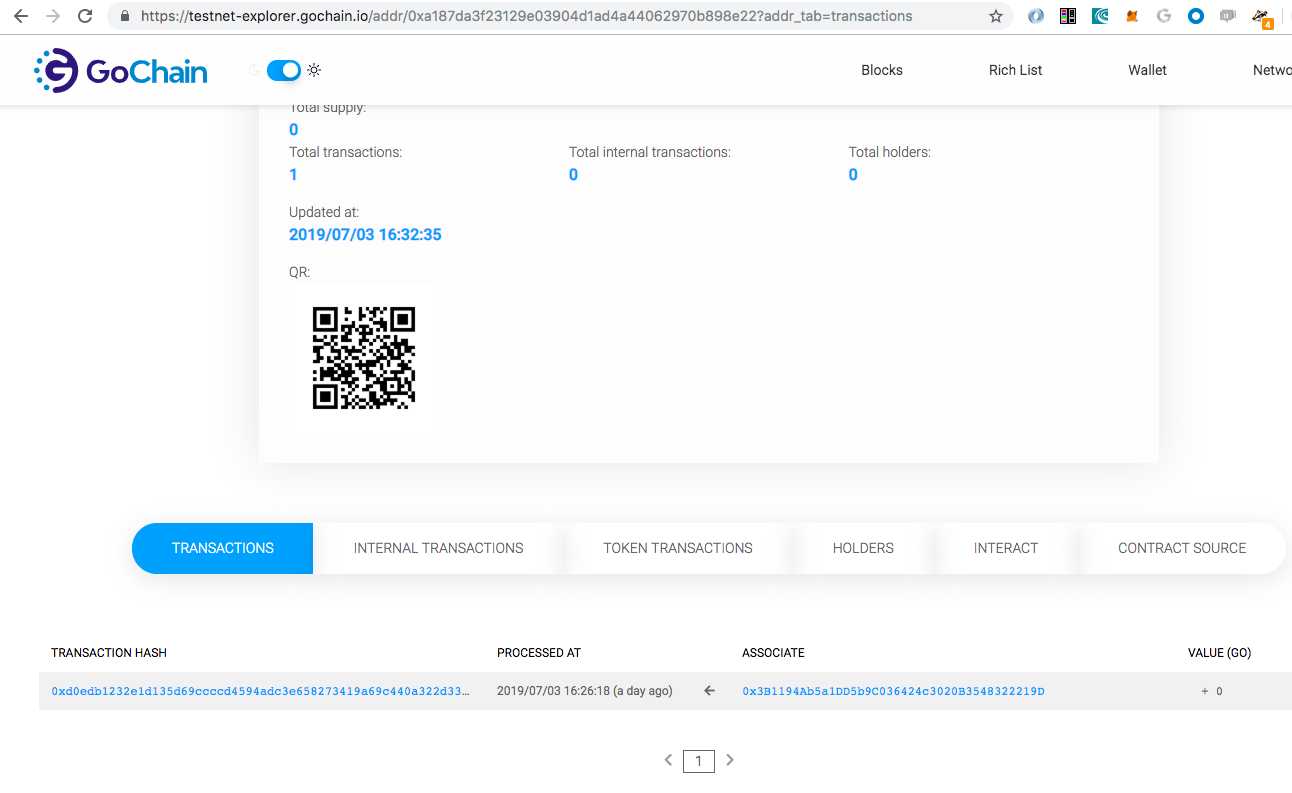
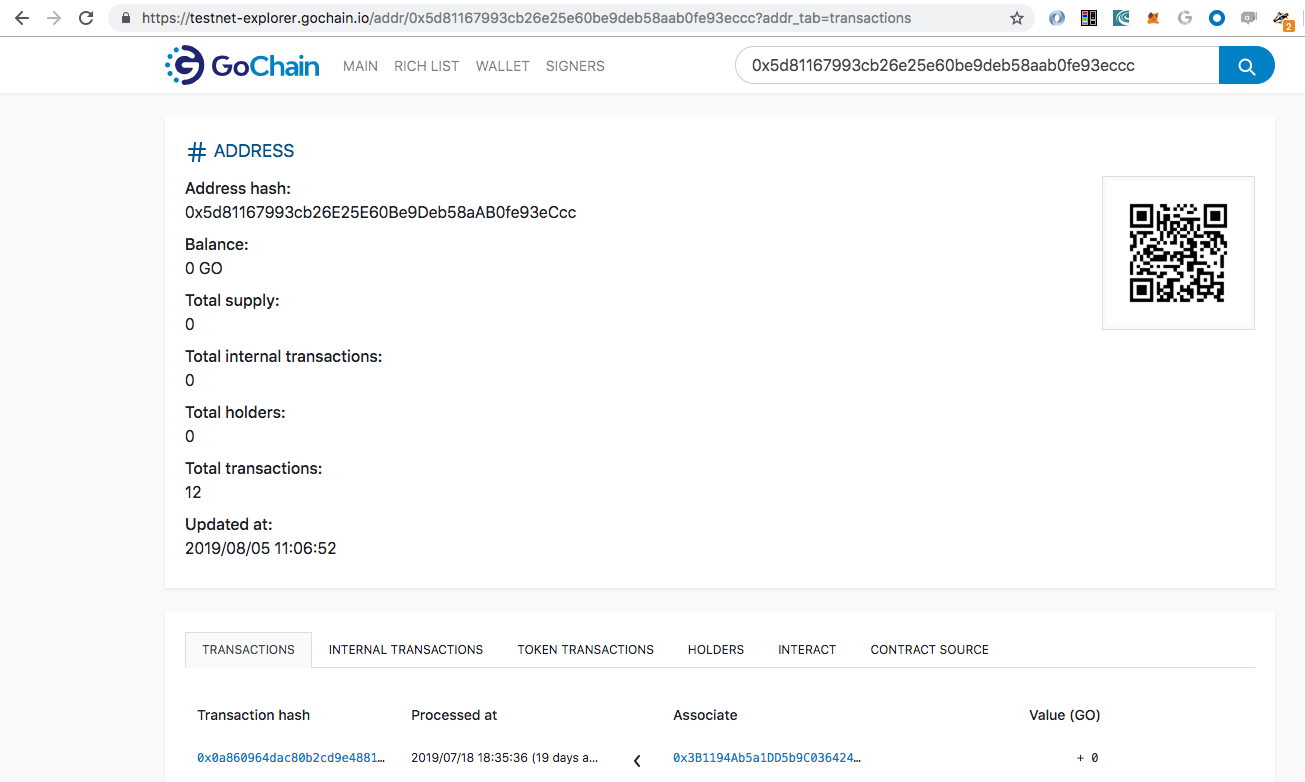
Use correct gochain deployment address

diff --git a/GoChain.md b/GoChain.md
@@ -53,7 +53,7 @@ Let's also check that our Ownership contract deployed correctly on the GoChain T
 
 ![Link Contract Deployments List](images/link_contract_deployments_list.png)
 
-In the above example, the contract address on GoChain is `0xa187da3f23129e03904d1ad4a44062970b898e22`.
+In the above example, the contract address on GoChain is `0x5d81167993cb26e25e60be9deb58aab0fe93eccc`.
 
 ![GoChain Explorer](images/gochain_explorer_contract.png)
 
@@ -77,5 +77,6 @@ https://github.com/blockmason/link-onboarding/blob/master/ownership-link-sdk-dem
 ### Deploying to GoChain Mainnet
 
 If you want to deploy on the GoChain Mainnet, just follow the same steps above with the following differences:
-* > Acquire mainnet GO tokens to send to your Link default account wallet
-* > Use the use the appropriate [GoChain Network RPC URL](https://github.com/gochain-io/docs#network-rpc-urls) for Mainnet
+  > Acquire mainnet GO tokens to send to your Link default account wallet
+  
+  > Use the use the appropriate [GoChain Network RPC URL](https://github.com/gochain-io/docs#network-rpc-urls) for Mainnet

diff --git a/Ethereum.md b/Ethereum.md
@@ -67,7 +67,7 @@ And we see our contract deployed on the Ropsten Testnet!
 
 Now you can go ahead and use the API endpoints which are linked to the Ownership smart contract deployed on Ethereum Ropsten!
 
-### Test API endpoints
+### Test Ownership API endpoints
 A simple JavaScript file using the Link JavaScript SDK in a Node environment can be found here:
 
 https://github.com/blockmason/link-onboarding/blob/master/ownership-link-sdk-demo.js
@@ -83,5 +83,6 @@ https://github.com/blockmason/link-onboarding/blob/master/ownership-link-sdk-dem
 ### Deploying to Ethereum Mainnet
 
 If you want to deploy on the Ethereum Mainnet, just follow the same steps above with the following differences:
-* > Acquire actual ETH to send to your Link default account wallet
-* > Use the Infura Mainnet URL
+> Acquire actual ETH to send to your Link default account wallet
+
+> Use the Infura Mainnet URL
